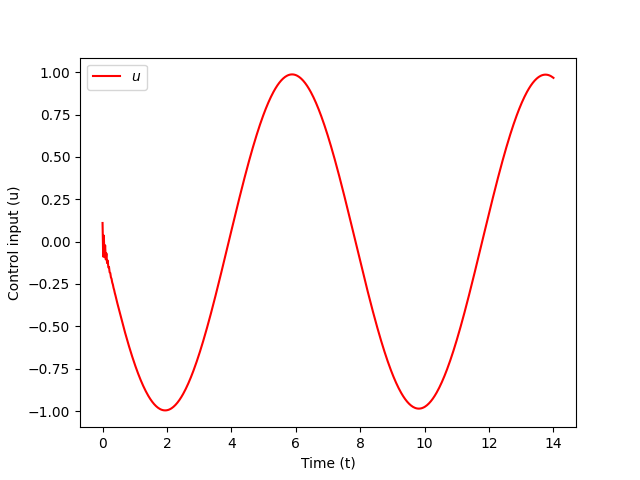
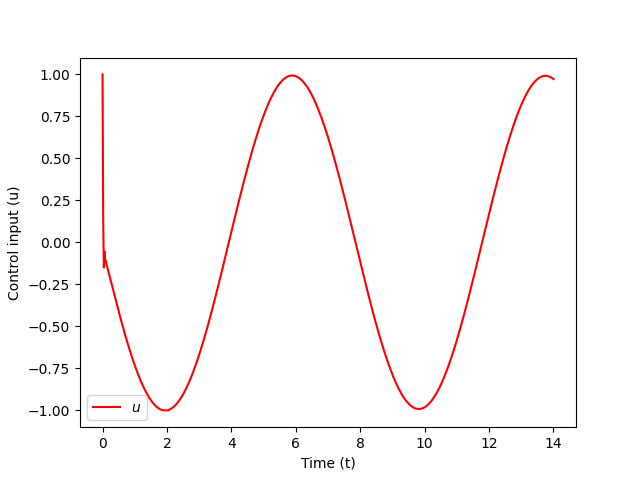
Control affine f,g applied to l1 algorithm

diff --git a/cartpole_lqr_l1.py b/cartpole_lqr_l1.py
@@ -1,4 +1,5 @@
 import gym
+import math 
 import gym_cartpole_continuous
 import control
 import numpy as np
@@ -59,15 +60,59 @@ g = float(env.gravity)
 frames = []
 observation = env.reset()
 
-def f(x):
-    Am = np.array([[0, 1, 0, 0], [0, 0, -0.98, 0],
-                  [0, 0, 0, 1], [0, 0, 21.56, 0]])
-    return np.matmul(Am, x)
+# def f(x):
+#     Am = np.array([[0, 1, 0, 0], [0, 0, -0.98, 0],
+#                   [0, 0, 0, 1], [0, 0, 21.56, 0]])
+#     return np.matmul(Am, x)
 
 
-def g(x):
-    Bm = np.array([[0, 1, 0, -2]]).T
-    return Bm
+# def g(x):
+#     Bm = np.array([[0, 1, 0, -2]]).T
+#     return Bm
+
+def f(state):
+    gravity = 9.8
+    masscart = 1.0
+    masspole = 0.1
+    total_mass = masspole + masscart
+    length = 0.5  
+    polemass_length = masspole * length
+    force_mag = 10.0
+    next_state=np.zeros(state.shape)
+    x, x_dot, theta, theta_dot = state 
+
+    costheta = math.cos(theta)
+    sintheta = math.sin(theta)
+
+    temp = (polemass_length*theta_dot*theta_dot * sintheta) / total_mass
+
+    theta_ddot= (gravity * sintheta - costheta * temp) / (
+                length * (4.0 / 3.0 - masspole * costheta * costheta / total_mass))
+    x_ddot= temp - polemass_length*theta_ddot*costheta / total_mass
+
+    next_state=(x_dot,x_ddot,theta_dot,theta_ddot)
+    next_state = np.array(next_state)
+    return next_state
+
+def g(state):
+    gravity = 9.8
+    masscart = 1.0
+    masspole = 0.1
+    total_mass = masspole + masscart
+    length = 0.5  
+    polemass_length = masspole * length
+    force_mag = 10.0
+    next_state=np.zeros(state.shape)
+    x, x_dot, theta, theta_dot = state
+    costheta = math.cos(theta)
+    sintheta = math.sin(theta)
+    x_ddot= force_mag/total_mass
+    theta_ddot= -costheta*force_mag /(
+                length * (4.0 / 3.0 - masspole * costheta * costheta / total_mass))
+
+    next_state=(0,x_ddot,0, theta_ddot)
+    next_state = np.array(next_state)
+    return np.expand_dims(next_state, axis = -1)
 
 
 adaptive_controller = L1_adapt(env, f, g)
@@ -80,7 +125,7 @@ for _ in range(700):
     
     u_bl= lqr_policy(observation)
     u =adaptive_controller.get_control_input(observation,u_bl)
-    #u = u_bl    #uncomment to run baseline controller(lqr)
+    # u = u_bl    #uncomment to run baseline controller(lqr)
 
     observation=adaptive_controller.plant(observation,np.expand_dims(u,axis=-1))
 

diff --git a/gym-cartpole-continuous/gym_cartpole_continuous/envs/cartpole_continuous_env.py b/gym-cartpole-continuous/gym_cartpole_continuous/envs/cartpole_continuous_env.py
@@ -13,8 +13,8 @@ class CartPoleContinuousEnv(CartPoleEnv):
         self.min_action = np.float32(-1.0)
         self.max_action = np.float32(1.0)
         self.action_space = spaces.Box(low=self.min_action, high=self.max_action, shape=(1,), )
-        self.observation_noise = 0.0
         self.time = 0.0
+
     def step(self, action):
         assert self.action_space.contains(action), "%r (%s) invalid" % (action, type(action))
 
@@ -30,10 +30,9 @@ class CartPoleContinuousEnv(CartPoleEnv):
             act = self.min_action
 
         force = self.force_mag * act
-
         # Note: everything below this is same as gym's cartpole step fun.
         state = self.state
-        x, x_dot, theta, theta_dot = state 
+        x, x_dot, theta, theta_dot = state
         costheta = math.cos(theta)
         sintheta = math.sin(theta)
         temp = (force + self.polemass_length * theta_dot * theta_dot * sintheta) / self.total_mass
@@ -70,6 +69,5 @@ class CartPoleContinuousEnv(CartPoleEnv):
                             "are undefined behavior.")
             self.steps_beyond_done += 1
             reward = 0.0
-        state1=np.array(self.state)
-        np.random.seed(2000)
-        return state1 + np.random.uniform(low=-self.observation_noise, high=self.observation_noise, size=state1.shape), reward, done, {}
+
+        return np.array(self.state), reward, done, {}

diff --git a/gym-cartpole-continuous/setup.py b/gym-cartpole-continuous/setup.py
@@ -1,0 +1,22 @@
+from os import path
+from setuptools import setup
+
+TEST_REQUIRES = ['pytest', 'pytest_cases']
+INSTALL_REQUIRES = ['gym']
+
+setup(name='gym-cartpole-continuous',
+      version='0.0.1',
+      url='https://github.com/koulanurag/gym_cartpole_continuous',
+      py_modules=['gym_cartpole_continuous'],
+      packages=['gym_cartpole_continuous'],
+      author='Anurag Koul',
+      author_email='koulanurag@gmail.com',
+      description='CartPole environment with continuous action space',
+      long_description=open(path.join(path.abspath(path.dirname(__file__)), 'README.md')).read(),
+      long_description_content_type='text/markdown',
+      license=open(path.join(path.abspath(path.dirname(__file__)), 'LICENSE')).read(),
+      install_requires=INSTALL_REQUIRES,
+      tests_require=TEST_REQUIRES,
+      extras_require={'testing': TEST_REQUIRES},
+      python_requires='>=3.5',
+      )

diff --git a/gym-cartpole-continuous/tests/test_continuous_cartpole.py b/gym-cartpole-continuous/tests/test_continuous_cartpole.py
@@ -1,0 +1,33 @@
+import gym
+import pytest
+import gym_cartpole_continuous
+from pytest_cases import parametrize_plus, fixture_ref
+
+
+@pytest.fixture(scope='module')
+def env_v0():
+    env = gym.make('CartPoleContinuous-v0')
+    yield env
+    env.close()
+
+
+@pytest.fixture(scope='module')
+def env_v1():
+    env = gym.make('CartPoleContinuous-v1')
+    yield env
+    env.close()
+
+
+@parametrize_plus('env',
+                  [fixture_ref(env_v0),
+                   fixture_ref(env_v1)])
+def test_continuous_action(env):
+    assert isinstance(env.action_space, gym.spaces.Box), 'Action Space should be continuous'
+
+    # step a cont. action in the env.
+    env.reset()
+    obs, reward, done, info = env.step(env.action_space.sample())
+    assert env.observation_space.contains(obs)
+
+    obs, reward, done, info = env.step([1.0])
+    assert env.observation_space.contains(obs)

diff --git a/gym-cartpole-continuous/README.md b/gym-cartpole-continuous/README.md
@@ -1,0 +1,34 @@
+# gym-cartpole-continuous
+It's a light wrapper around gym's [CartPole](https://github.com/openai/gym/blob/master/gym/envs/classic_control/cartpole.py) env. modified to have continuous action space `(one-line change)`
+
+![Build Status](https://travis-ci.com/koulanurag/gym-cartpole-continuous.svg?branch=master)
+
+## Installation
+```bash
+cd gym-cartpole-continuous
+pip install -e . 
+```
+
+## Usage:
+```python
+>>> import gym
+>>> import gym_cartpole_continuous
+>>> env = gym.make('CartPoleContinuous-v0')
+>>> env.action_space
+Box(1,)
+>>> env.action_space.sample()
+array([0.85574186], dtype=float32)
+```
+
+Alternate way to create the environment:
+```python
+>>> import gym
+>>> env = gym.make('gym_cartpole_continuous:CartPoleContinuous-v0')
+```
+
+## Env:
+
+|Env|Attributes|
+|:----|:----|
+|`CartPoleContinuous-v0`| Max Steps: 200|
+|`CartPoleContinuous-v1`| Max Steps: 500|
